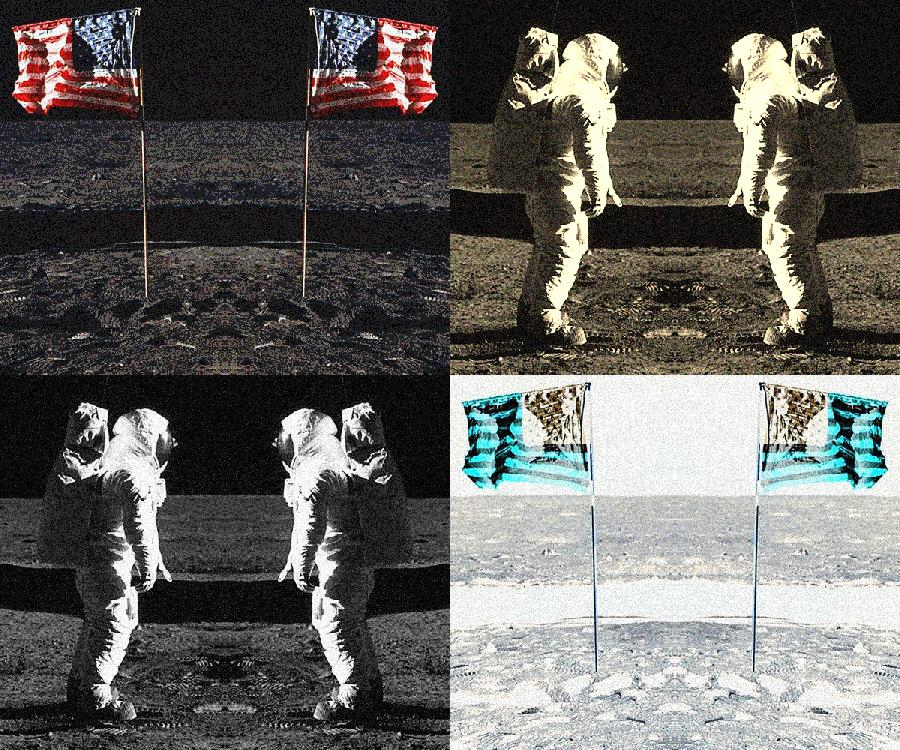
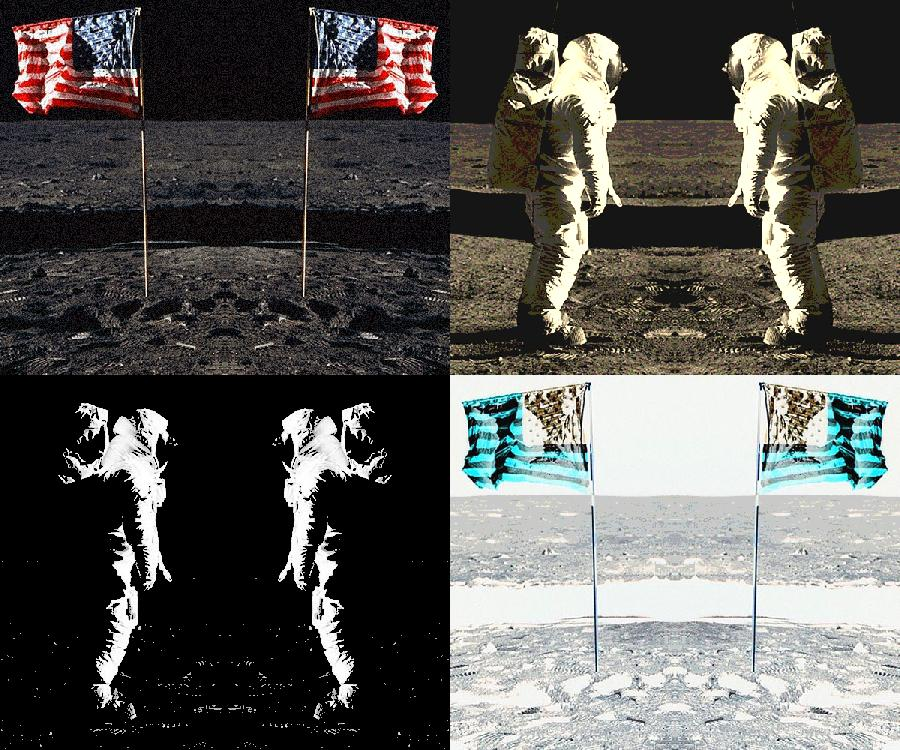
maor collage

diff --git a/PictureLab/classes/PictureTester.java b/PictureLab/classes/PictureTester.java
@@ -166,12 +166,10 @@ public class PictureTester
         canvas.cropAndCopy(orig, 25, 525, 125, 725, 0,0);//crop out a resizeable chunk
         canvas.scaleDownRemPix(0.75);//scale it down
         
-        
-        canvas.makeStatic(50);
         inter.cropAndCopy(canvas, 0,375,0,450,0,0);
         
         mod.copy(inter,0,0);
-        mod.posterize(4);
+        mod.makeStatic(50);//adds some color variation (removed by posterize in most cases)
         mod.mirrorVertical();
         canvas.copy(mod,0,0);
         
@@ -183,8 +181,9 @@ public class PictureTester
         
         mod.copy(inter,0,0);
         mod.grayscaleLum();
-        mod.posterize(8);
+        mod.posterize(2);
         mod.mirrorVerticalRightToLeft();
+        mod.grayToBlack();
         canvas.copy(mod,375,0);
         
         mod.copy(inter,0,0);

diff --git a/PictureLab/classes/Picture.java b/PictureLab/classes/Picture.java
@@ -175,7 +175,6 @@ public class Picture extends SimplePicture
             }
         }
     }
-
     public void grayscaleLum()
     {
         Pixel[][] pixels = this.getPixels2D();
@@ -185,6 +184,18 @@ public class Picture extends SimplePicture
             {
                 ColorCalc calc = new ColorCalc(pixelObj.getColor());
                 pixelObj.setColor(calc.lumGrayScale());
+            }
+        }
+    }
+    public void grayToBlack()
+    {
+        Pixel[][] pixels = this.getPixels2D();
+        for (Pixel[] rowArray : pixels)
+        {
+            for (Pixel pixelObj : rowArray)
+            {
+                ColorCalc calc = new ColorCalc(pixelObj.getColor());
+                pixelObj.setColor(calc.grayToBlack());
             }
         }
     }

diff --git a/PictureLab/classes/ColorCalc.java b/PictureLab/classes/ColorCalc.java
@@ -116,6 +116,17 @@ public class ColorCalc
         int avg = (color1.getGreen()+color1.getBlue()+color1.getRed())/3;
         return new Color(avg, avg, avg);
     }
+    public Color grayToBlack()
+    {
+        if(color2!=null)
+        {
+            System.out.println("Too many colors!");
+            return null;
+        }
+        int avg = (color1.getGreen()+color1.getBlue()+color1.getRed())/3;
+        if(avg<150)avg=0;
+        return new Color(avg, avg, avg);
+    }
 
     public Color averageColors()
     {
